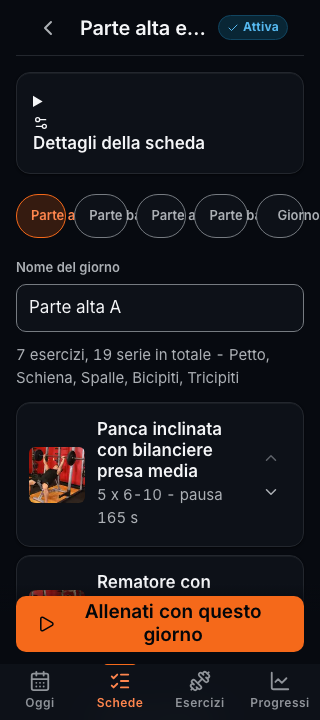
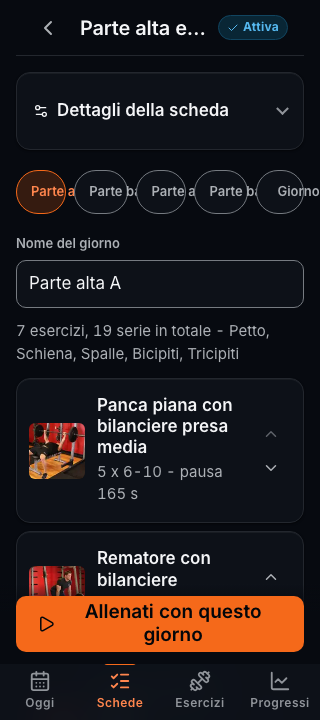
Rifiniture dell'editor dei parametri
Il segnaposto del campo carico veniva troncato nella larghezza disponibile:
rimosso, l'etichetta sopra dice gia' di cosa si tratta.

I blocchi apribili mostravano il triangolo del browser a capo, sopra il testo:
la regola che garantisce i 44px di bersaglio di tocco su summary entrava in
conflitto con il marcatore predefinito. Sostituito con un indicatore disegnato
in CSS che ruota all'apertura.

Aggiunte le schermate dell'editor, a carico e a tempo, che documentano il
comportamento richiesto: un esercizio isometrico chiede durata e pausa e non
mostra il campo del carico.

diff --git a/apps/web/src/styles/app.css b/apps/web/src/styles/app.css
@@ -1437,3 +1437,40 @@
   .set-actions > a:last-child { margin-inline-start: auto; }
   .set-actions .btn { white-space: nowrap; }
 }
+
+@layer components {
+
+  /* --- Blocchi espandibili --------------------------------------------------
+     La regola di base impone un'altezza minima di 44px a summary per garantire
+     il bersaglio di tocco; senza display esplicito il triangolo del browser va
+     a capo e finisce sopra il testo. */
+
+  summary {
+    display: flex;
+    align-items: center;
+    gap: calc(var(--spacing) * 2);
+  }
+
+  /* Con display:flex il browser non disegna piu' il suo triangolo: senza un
+     sostituto il blocco non sembrerebbe apribile. */
+  summary::-webkit-details-marker { display: none; }
+  summary::marker { content: ''; }
+
+  summary::after {
+    content: '';
+    flex: none;
+    margin-inline-start: auto;
+    inline-size: 9px;
+    block-size: 9px;
+    border-inline-end: 2px solid var(--color-text-tertiary);
+    border-block-end: 2px solid var(--color-text-tertiary);
+    transform: rotate(45deg) translate(-2px, -2px);
+    transition: transform var(--duration-2) var(--ease-standard);
+  }
+
+  details[open] > summary::after { transform: rotate(-135deg) translate(-2px, -2px); }
+
+  summary > svg { flex: none; }
+
+  details[open] > summary { margin-block-end: calc(var(--spacing) * 1); }
+}

diff --git a/apps/web/src/features/plans/PlanItemEditor.tsx b/apps/web/src/features/plans/PlanItemEditor.tsx
@@ -100,7 +100,6 @@ export function PlanItemEditor({ exercise, item, goal, experience, onChange }: P
             value={first?.weightKg}
             onChange={(v) => patchSets({ weightKg: v })}
             step={2.5} min={0} max={500} decimals compact
-            placeholder="da definire"
           />
         )}
       </div>
